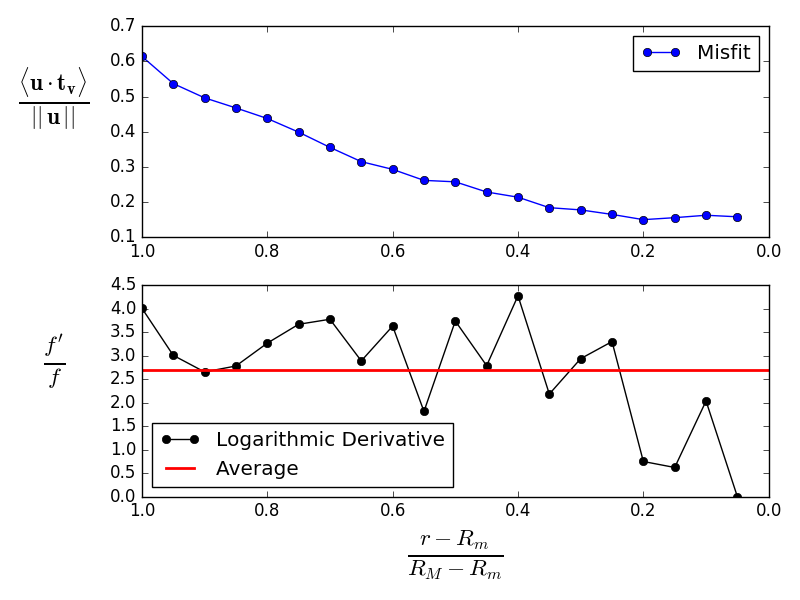
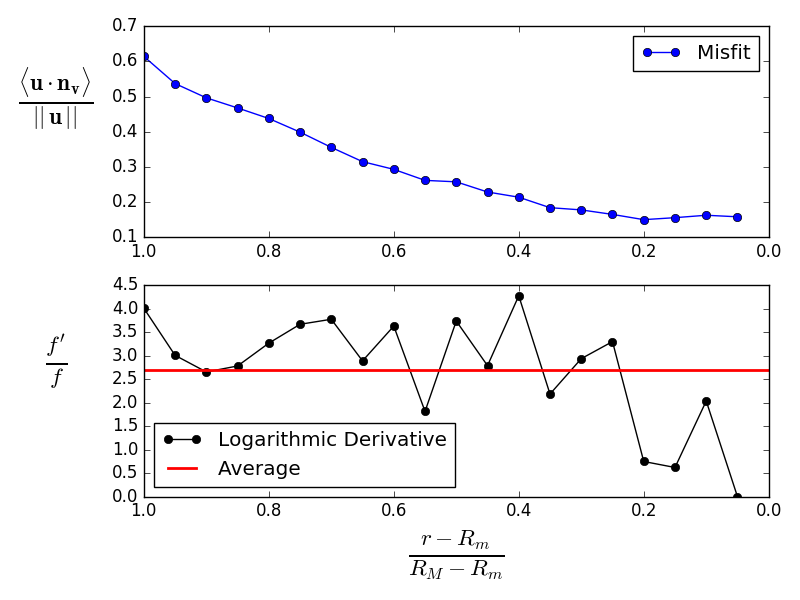
prof bogard caught a typo

diff --git a/disputatio/routines/annealing/anneal.py b/disputatio/routines/annealing/anneal.py
@@ -48,7 +48,7 @@ plt.subplot(2,1,1)
 plt.plot(r,f, 'ko-', color='blue',label='Misfit')
 plt.xlim(xmax, xmin)
 #plt.ylim(0.9, 1.4)
-plt.ylabel(r'$\frac{\langle {\bf u }\cdot {\bf t_v } \rangle}{||\, {\bf u}\, ||}$',
+plt.ylabel(r'$\frac{\langle {\bf u }\cdot {\bf n_v } \rangle}{||\, {\bf u}\, ||}$',
            fontsize=fsz,rotation=0,labelpad=40)
 #ax.set_yscale('log')
 plt.legend()
